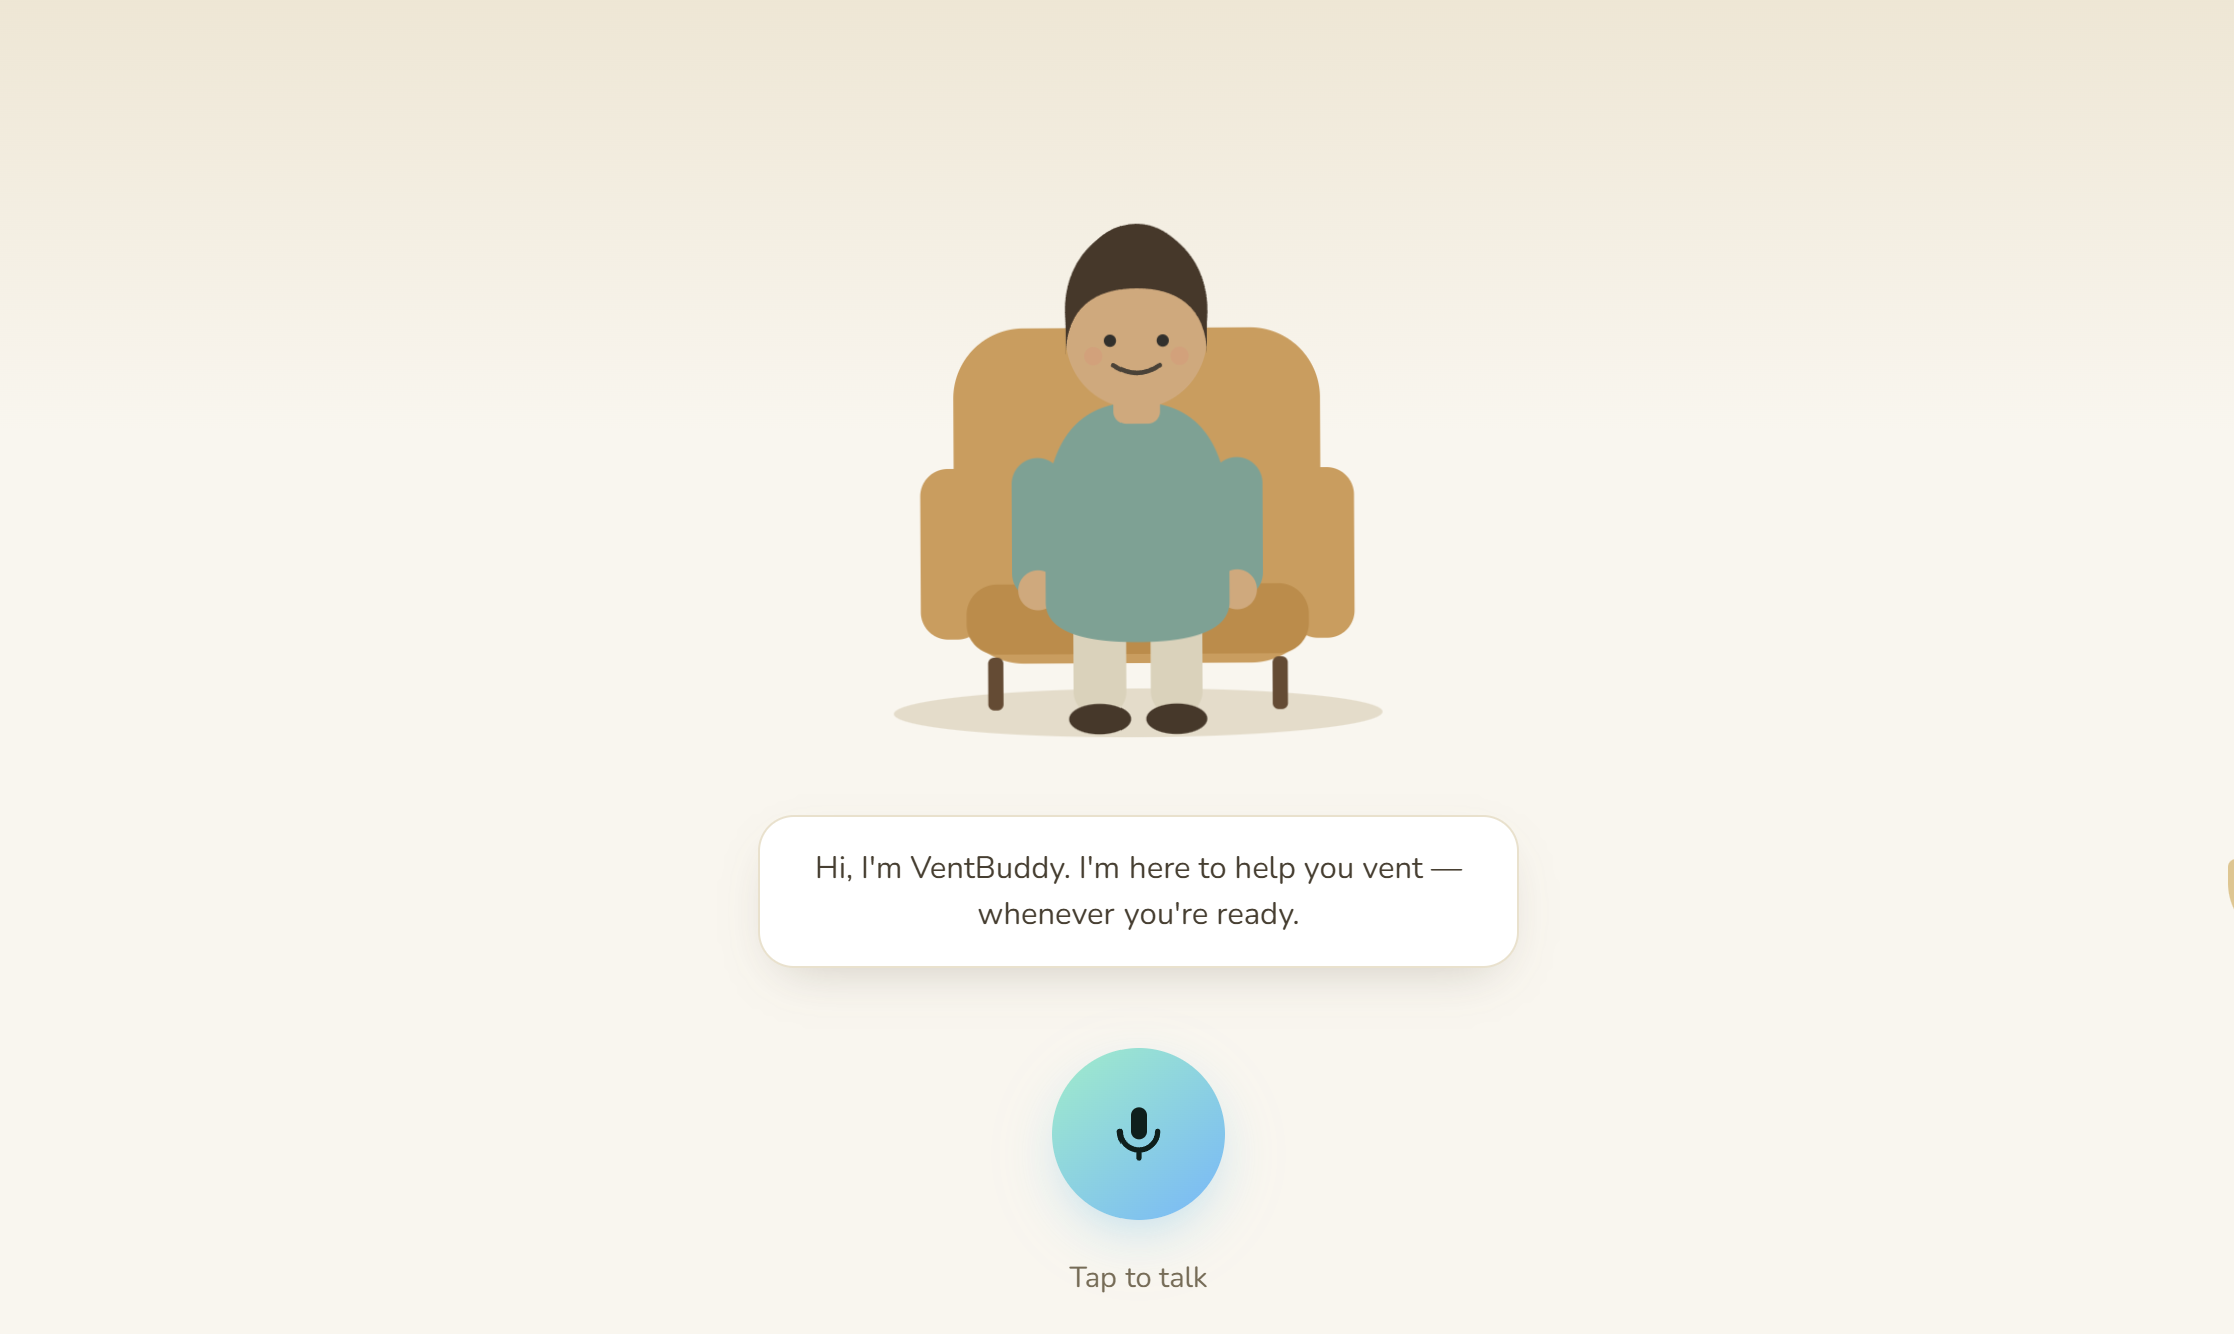
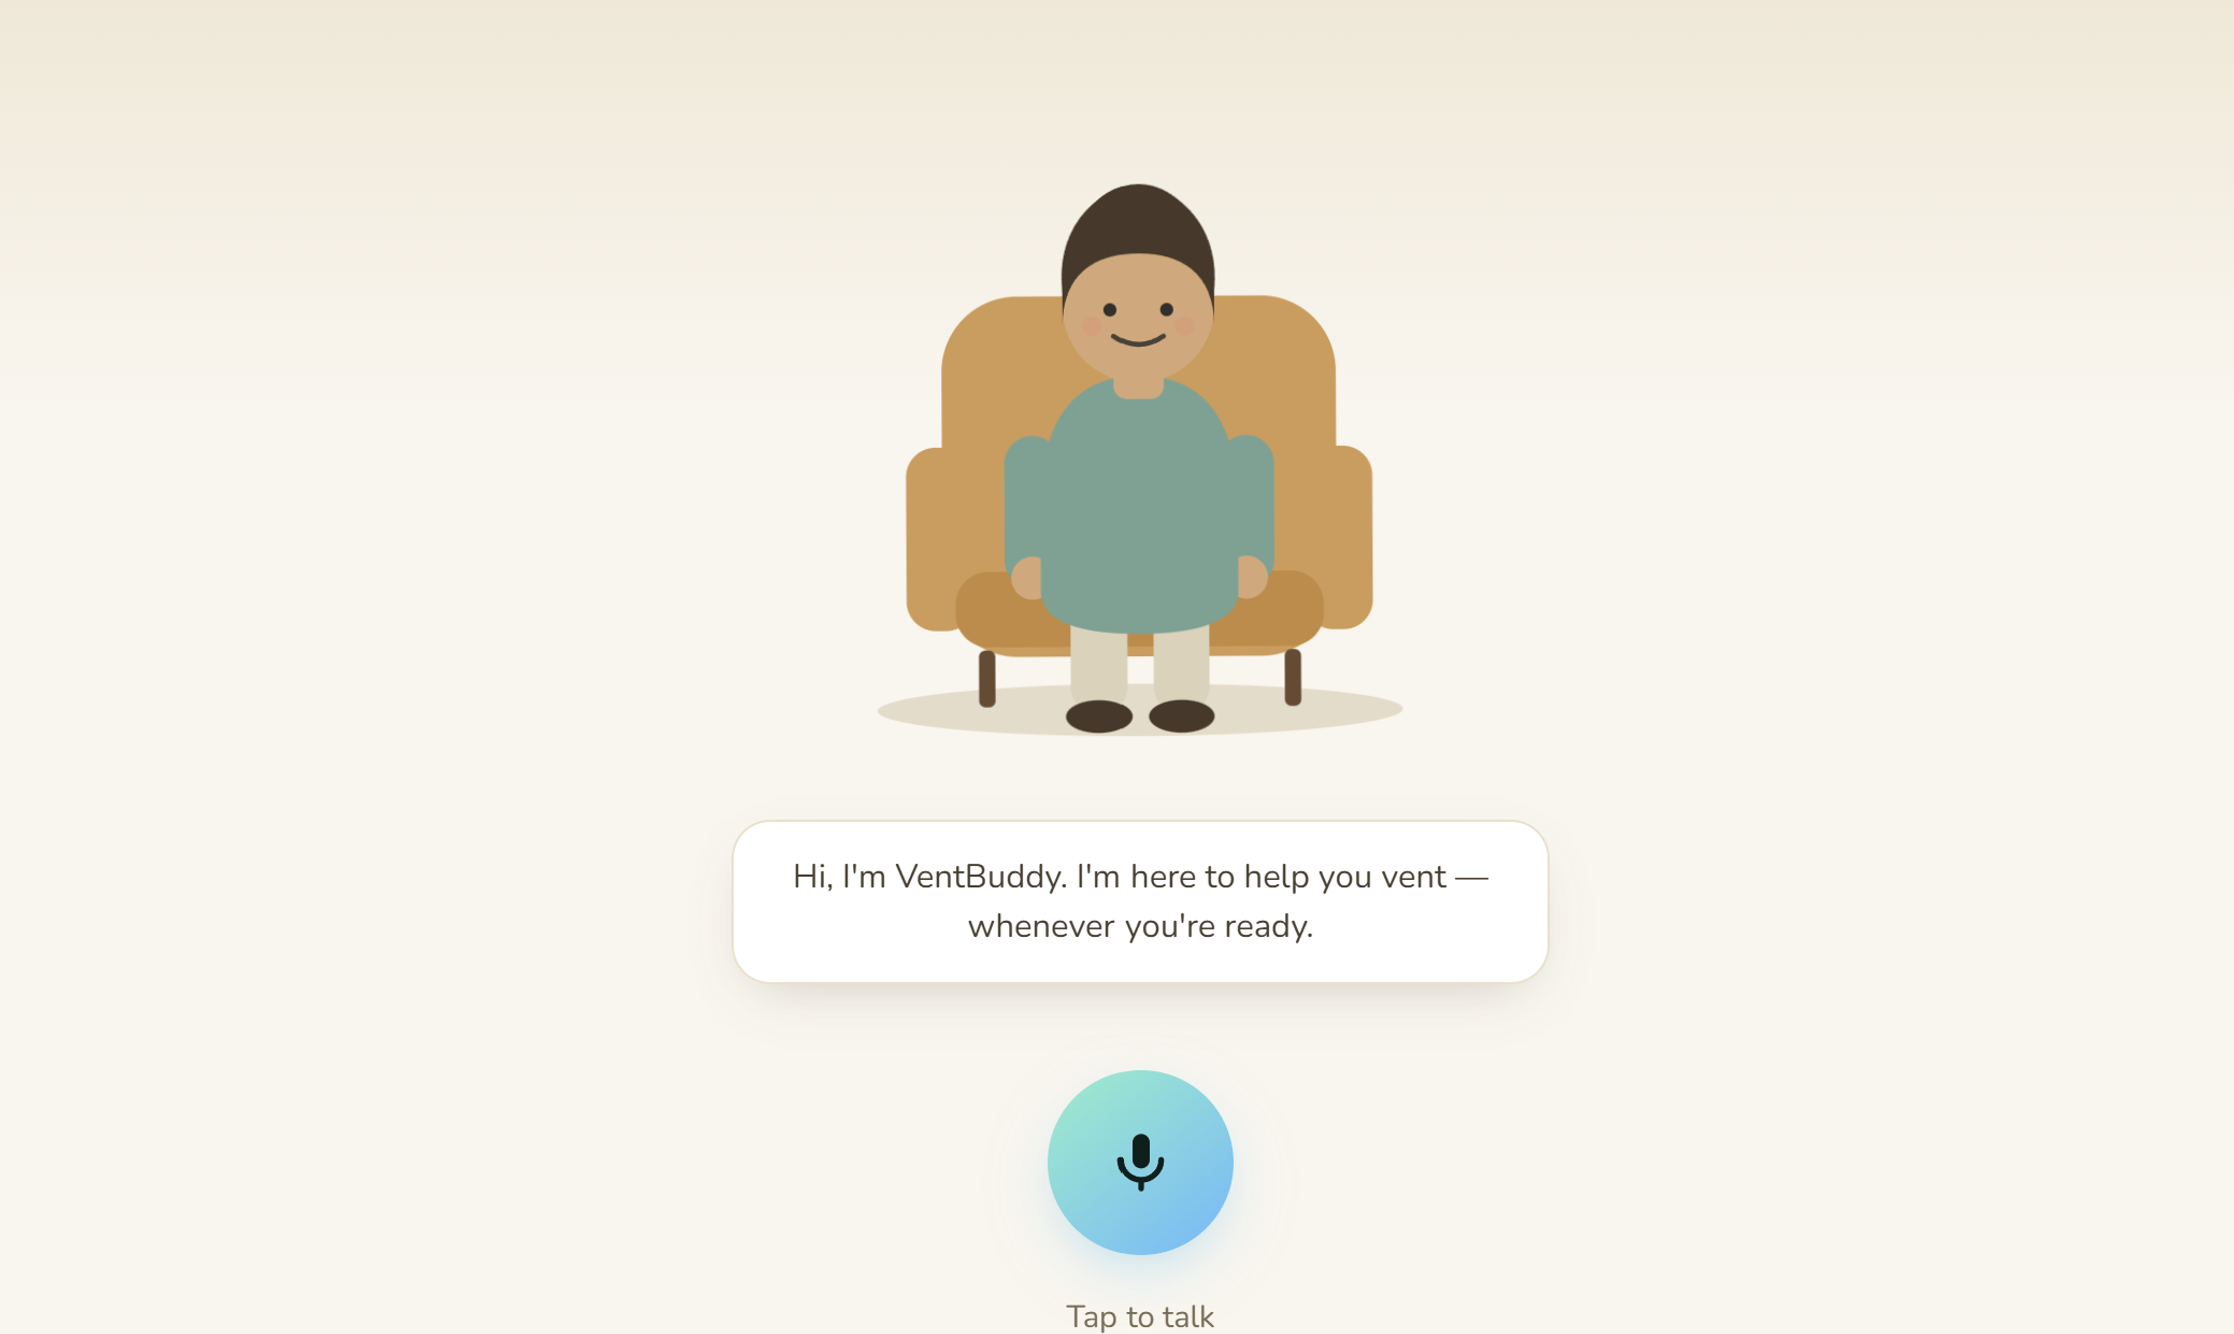
Update for Iphone

diff --git a/src/components/recruiters/RecruitersPage.jsx b/src/components/recruiters/RecruitersPage.jsx
@@ -462,7 +462,7 @@ function ArrowLinkIcon() {
 }
 
 function ProjectCard({ project, onViewDescription, suppressClickRef }) {
-  const { title, summary, image, imageObjectPosition, imageFocusLeft, technologies } = project;
+  const { title, summary, image, imageObjectPosition, imageFocusLeft, imageZoomIn, technologies } = project;
 
   const openDescription = useCallback(() => {
     if (suppressClickRef?.current) return;
@@ -481,7 +481,7 @@ function ProjectCard({ project, onViewDescription, suppressClickRef }) {
       <div
         className={`recruiters-project-image-wrap${
           imageFocusLeft ? ' recruiters-project-image-wrap--left-focus' : ''
-        }`}
+        }${imageZoomIn ? ' recruiters-project-image-wrap--zoom' : ''}`}
         role="button"
         tabIndex={0}
         aria-label={`View ${title} description`}

diff --git a/src/components/recruiters/RecruitersPage.css b/src/components/recruiters/RecruitersPage.css
@@ -610,6 +610,16 @@
   padding: 0 2.75rem 0.5rem;
 }
 
+@media (max-width: 639px) {
+  .recruiters-projects-carousel {
+    padding: 0 0 0.5rem;
+  }
+
+  .recruiters-carousel-nav {
+    display: none;
+  }
+}
+
 .recruiters-carousel-viewport {
   overflow: hidden;
   touch-action: pan-y pinch-zoom;
@@ -776,6 +786,17 @@
   right: auto;
   object-fit: cover;
   object-position: left top;
+}
+
+.recruiters-project-image-wrap--zoom .recruiters-project-image {
+  transform: scale(1.06);
+  transform-origin: center center;
+}
+
+@media (max-width: 639px) {
+  .recruiters-project-image-wrap--zoom .recruiters-project-image {
+    transform: scale(1.12);
+  }
 }
 
 .recruiters-project-image {

diff --git a/src/data/portfolioProjects.js b/src/data/portfolioProjects.js
@@ -123,6 +123,7 @@ const rawProjects = [
     description:
       'A voice-first AI assistant that listens without judgment, offers supportive guidance, and turns each conversation into a clear next-step report.',
     image: '/VentBuddy.png',
+    imageZoomIn: true,
     technologies: ['LangChain', 'Ollama', 'FastAPI', 'SpeechRecognition', 'Python', 'OpenAI Whisper'],
     projectUrl: 'https://vent-buddy.vercel.app/',
     ctaLabel: 'View Project',

diff --git a/src/data/recruitersContent.js b/src/data/recruitersContent.js
@@ -128,6 +128,7 @@ export const RECRUITER_PROJECTS = RECRUITER_PROJECT_SLUGS.map((slug) => {
     image: project.image,
     imageObjectPosition: project.imageObjectPosition,
     imageFocusLeft: project.imageFocusLeft,
+    imageZoomIn: project.imageZoomIn,
     detailImages: project.detailImages ?? [],
     youtubeVideoId: project.youtubeVideoId,
     projectUrl: project.projectUrl,

diff --git a/src/components/Projects.js b/src/components/Projects.js
@@ -82,7 +82,7 @@ const Projects = () => {
               <div
                 className={`project-image${
                   project.imageFocusLeft ? ' project-image--left-focus' : ''
-                }`}
+                }${project.imageZoomIn ? ' project-image--zoom' : ''}`}
               >
                 <img
                   src={project.image}

diff --git a/src/components/Projects.css b/src/components/Projects.css
@@ -266,6 +266,17 @@
   object-position: left top;
 }
 
+.project-image--zoom img {
+  transform: scale(1.06);
+  transform-origin: center center;
+}
+
+@media (max-width: 639px) {
+  .project-image--zoom img {
+    transform: scale(1.12);
+  }
+}
+
 .project-image img {
   width: 100%;
   height: 100%;
